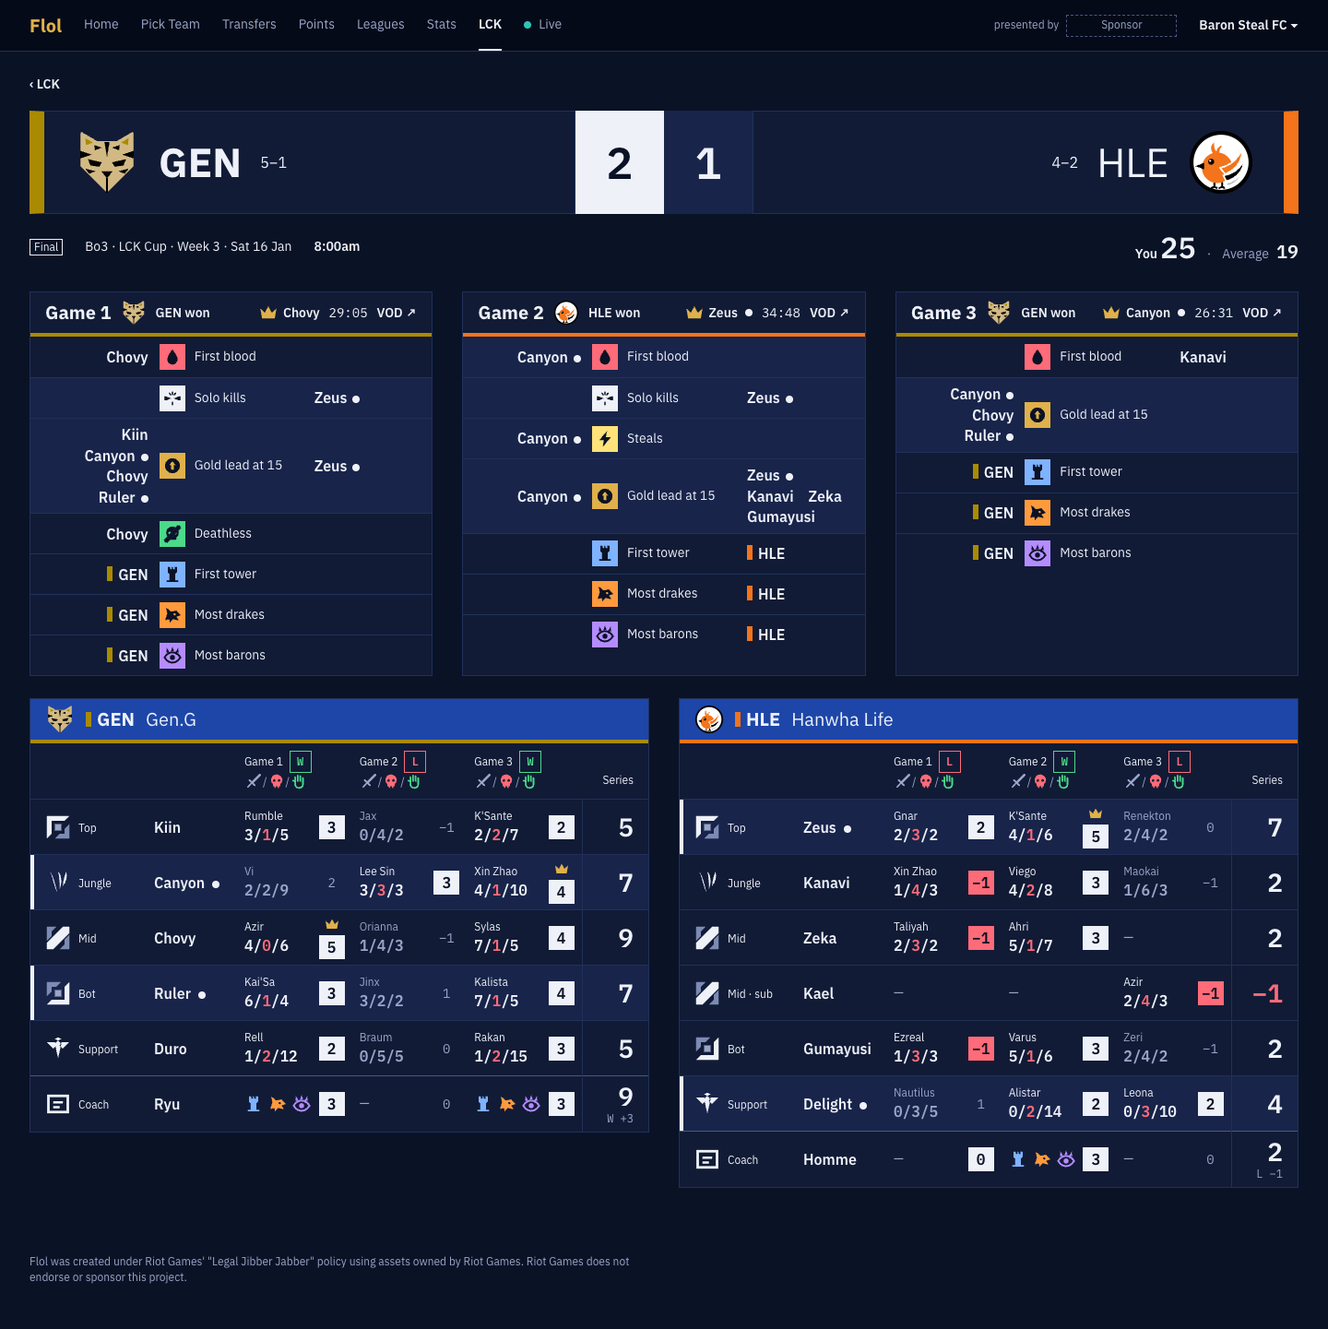
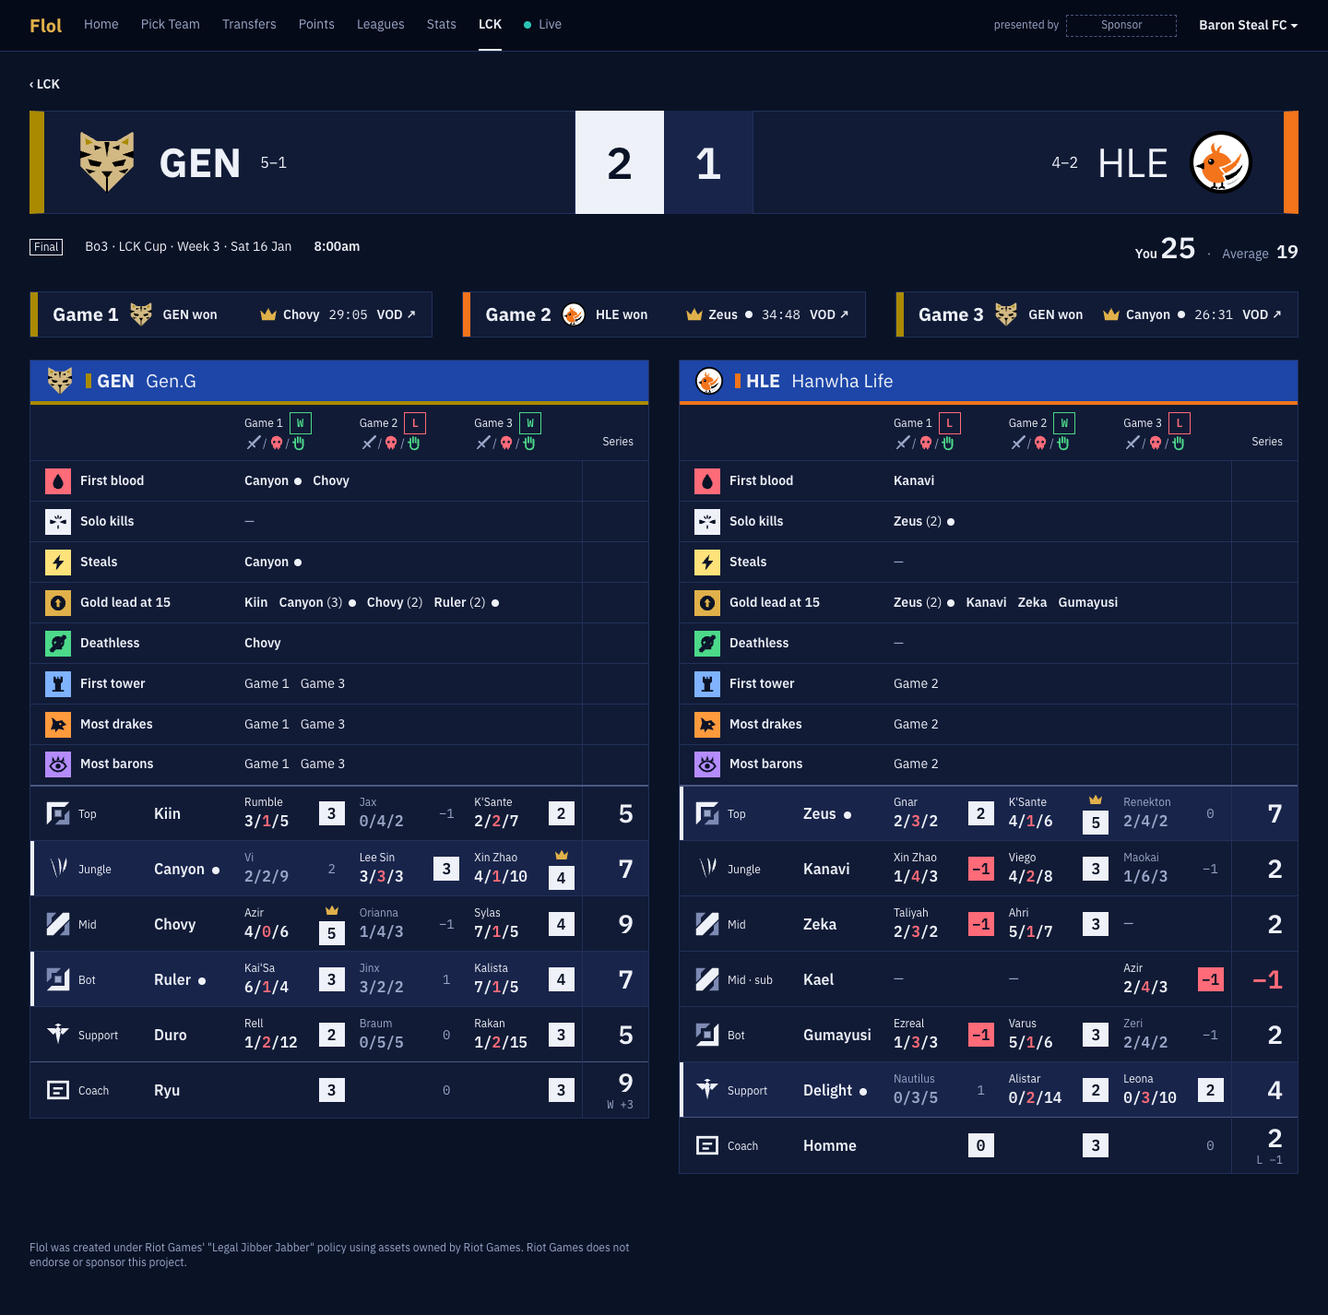
docs: Series cut by team throughout: each team's events head its table with counts as FPL, a line a game under the scorebug

diff --git a/docs/design/approved/series/series.html b/docs/design/approved/series/series.html
@@ -82,11 +82,10 @@ td.drop .gm .kda i { color: inherit; }
 .gm .p .ic--pog { color: var(--gold); }
 tr.is-me td { background: var(--fill); }
 tr.is-me td:first-child { box-shadow: inset 4px 0 0 var(--text); }
-/* The games, as FPL and UCL fantasy set a finished match's events under its score: a card a game, a row an event,
-   each team's names on its own side of the event's mark. */
+/* The games: a line a game under the scorebug. */
 .games { display: grid; gap: 32px; margin-top: 24px; }
 .game { background: var(--paper); border: 1px solid var(--line); }
-.game__head { font: 400 14px/24px var(--sans); white-space: nowrap; display: flex; align-items: center; gap: 10px; min-height: 48px; padding: 0 16px; border-bottom: 4px solid var(--text); }
+.game__head { font: 400 14px/24px var(--sans); white-space: nowrap; display: flex; align-items: center; gap: 10px; min-height: 48px; padding: 0 16px; border-left: 8px solid var(--text); }
 .game__head > b { font: 700 20px/24px var(--head); }
 .game__head .pogw b { font-weight: 600; }
 .game__head .crest { width: 28px; height: 28px; }
@@ -95,20 +94,8 @@ tr.is-me td:first-child { box-shadow: inset 4px 0 0 var(--text); }
 .game__head .pogw { display: flex; align-items: center; gap: 6px; margin-left: auto; }
 .game__head .pogw .ic { color: var(--gold); width: 20px; height: 20px; }
 .game__head .yours { margin-left: 2px; }
-.ev { display: grid; grid-template-columns: 1fr 156px 1fr; gap: 0 12px; align-items: center; min-height: 44px; padding: 0 16px; border-top: 1px solid var(--line); }
-.ev:first-of-type { border-top: 0; }
-.ev.is-me { background: var(--fill); }
-.ev__what { display: flex; align-items: center; gap: 10px; color: var(--text); font-size: 14px; }
 .sq { display: flex; align-items: center; justify-content: center; width: 28px; height: 28px; flex: none; background: var(--text); }
-.sq .ic { color: var(--bg); }
-.ev__what .ic { width: 20px; height: 20px; }
-.ev b { font-size: 16px; }
-.ev__what .ic--pog { color: var(--gold); }
-.ev__a { text-align: right; }
-.ev__a, .ev__b { display: flex; flex-wrap: wrap; gap: 0 16px; align-items: center; padding: 6px 0; }
-.ev__a { justify-content: flex-end; }
-.ev b { font-weight: 600; }
-.ev .yours { margin-left: 6px; }
+.sq .ic { color: var(--bg); width: 20px; height: 20px; }
 .ev--none { color: var(--mid); justify-content: center; display: flex; }
 .gm .p { flex: none; font: 600 14px/20px var(--fig); min-width: 28px; display: flex; flex-direction: column; align-items: center; gap: 4px; }
 .gm .p .box { min-width: 28px; font: 700 16px/26px var(--fig); text-align: center; background: var(--text); color: var(--bg); }
@@ -120,8 +107,13 @@ td.drop .gm .p { font-weight: 400; }
 td.tot { text-align: right; padding-right: 16px; font: 700 28px/32px var(--fig); border-left: 1px solid var(--line); }
 td.tot small { display: block; font: 400 12px/16px var(--fig); color: var(--mid); }
 tr.co td { border-top-color: var(--soft); }
-.gm .co-l { display: flex; gap: 6px; }
-.gm .co-l .ic { width: 20px; height: 20px; }
+/* A team's events head its table: a row a scoring line, its mark on a square of its colour, then who earned it. */
+.grid tr.evr td { height: 44px; padding-top: 6px; padding-bottom: 6px; }
+.evr__what { display: flex; align-items: center; gap: 10px; font-weight: 600; }
+.evr__who { display: flex; flex-wrap: wrap; gap: 0 12px; align-items: center; }
+.evr__who b { font-weight: 600; }
+.evr__who .yours { margin-left: 6px; }
+.grid tr.evr + tr:not(.evr) td { border-top: 2px solid var(--soft); }
 .none { color: var(--mid); }
 .cap { position: static; display: inline-block; width: 20px; height: 20px; margin-left: 8px; border: 0; box-shadow: none; font: 700 12px/20px var(--sans); text-align: center; vertical-align: 1px; }
 .chip { display: inline-block; min-width: 24px; height: 24px; padding: 0 6px; font: 600 12px/22px var(--fig); text-align: center; border: 1px solid transparent; }
@@ -241,14 +233,19 @@ const ic = (id, title = "", cls = "") => `<svg class="ic ic--${id} ${cls}"${titl
 const pog = (s, i, n) => (s.games[i].pog === n ? ic("pog", "Player of the Game", "ic--pog") : "");
 const cell = (s, i, n, label, p, counted) => `<td class="${counted ? "" : "drop"}"><div class="gm"><span>${label}</span><span class="p">${pog(s, i, n)}${counted ? `<span class="box${p < 0 ? " neg" : ""}">${fmt(p)}</span>` : fmt(p)}</span></div></td>`;
 const L = ["First tower", "Most drakes", "Most barons", "Most elders", "Quick win"], LI = ["tower", "drake", "baron", "elder", "quick"];
-// A game's events, as FPL's and UCL fantasy's finished match: a row an event that happened, each team's names on its side.
-function game(s, i) {
-  const g = s.games[i], side = (code) => { const t = s[code], at = (f) => t.p.filter((p) => p[3][i] && f(p[3][i]) > 0).map((p) => `<span><b>${p[1]}</b>${f(p[3][i]) > 1 ? ` ×${f(p[3][i])}` : ""}${me(p[1])}</span>`).join("");
-    const own = `<span><i class="team__bar" style="background:${BAR[code]}"></i><b>${code}</b></span>`, c = t.coach[2][i];
-    return [at((x) => x[6]), at((x) => x[5]), at((x) => x[8]), at((x) => (x[7] === 1 ? 1 : 0)), at((x) => (x[7] === 2 ? 1 : 0)), at((x) => x[4]), at((x) => (x[2] === 0 && !x[9] ? 1 : 0)), ...c.map((x) => (x ? own : ""))]; };
-  const A = side(s.a), B = side(s.b), W = [["fb", "First blood"], ["solo", "Solo kills"], ["steal", "Steals"], ["multi", "Quadras"], ["multi", "Pentas"], ["gold", "Gold lead at 15"], ["none", "Deathless"], ...L.map((l, j) => [LI[j], l])];
-  const rows = W.map(([id, word, cls], j) => (A[j] || B[j] ? `<div class="ev${(A[j] + B[j]).includes("yours") ? " is-me" : ""}"><span class="ev__a">${A[j]}</span><span class="ev__what"><span class="sq" style="background:var(--m-${id}, var(--text))">${ic(id, "", cls)}</span>${word}</span><span class="ev__b">${B[j]}</span></div>` : "")).join("");
-  return `<section class="game"><h2 class="game__head"${g.w ? ` style="border-bottom-color:${BAR[g.w]}"` : ""}><b>Game ${i + 1}</b>${g.live ? `<span class="tag tag--live">Live</span><span class="len" style="margin-left:auto"><b>${g.live}</b></span>` : `${crest(g.w)}<span class="won">${g.w} won</span><span class="pogw">${ic("pog", "Player of the Game")}<b>${g.pog}</b>${me(g.pog)}</span><span class="len">${g.len}</span><a class="link" href="#">VOD ↗</a>`}</h2>${rows || '<div class="ev ev--none">—</div>'}</section>`;
+// A game's result, one line a game under the scorebug: who won, its Player of the Game, its length and its VOD.
+const game = (s, i) => { const g = s.games[i]; return `<section class="game"><h2 class="game__head"${g.w ? ` style="border-left-color:${BAR[g.w]}"` : ""}><b>Game ${i + 1}</b>${g.live ? `<span class="tag tag--live">Live</span><span class="len" style="margin-left:auto"><b>${g.live}</b></span>` : `${crest(g.w)}<span class="won">${g.w} won</span><span class="pogw">${ic("pog", "Player of the Game")}<b>${g.pog}</b>${me(g.pog)}</span><span class="len">${g.len}</span><a class="link" href="#">VOD ↗</a>`}</h2></section>`; };
+// A team's events over the series, a row a scoring line that somebody earned: who earned it, or the games for a coach line.
+const EV = [["fb", "First blood", (x) => x[6]], ["solo", "Solo kills", (x) => x[5]], ["steal", "Steals", (x) => x[8]], ["multi", "Quadras", (x) => (x[7] === 1 ? 1 : 0)], ["multi", "Pentas", (x) => (x[7] === 2 ? 1 : 0)], ["gold", "Gold lead at 15", (x) => x[4]], ["none", "Deathless", (x) => (x[2] === 0 && !x[9] ? 1 : 0)]];
+function events(s, t) {
+  const n = s.games.length, sq = (id) => `<span class="sq" style="background:var(--m-${id}, var(--text))">${ic(id)}</span>`;
+  // Over the series, as FPL: a name once, its count after it when over one, Faker (2). A coach line names its games.
+  const count = (p, f) => sum(p[3].map((g) => (g ? f(g) : 0)));
+  const who = (u) => [...EV.map(([, , f]) => u.p.filter((p) => count(p, f) > 0).map((p) => `<span><b>${p[1]}</b>${count(p, f) > 1 ? ` (${count(p, f)})` : ""}${me(p[1])}</span>`).join("")),
+    ...L.map((_, j) => s.games.map((_, i) => (u.coach[2][i][j] ? `<span>Game ${i + 1}</span>` : "")).join(""))];
+  // Both tables carry the same rows, a line either team earned, so their players line up.
+  const mine = who(t), a = who(s[s.a]), b = who(s[s.b]), W = [...EV, ...L.map((l, j) => [LI[j], l])];
+  return W.map(([id, word], k) => (a[k] || b[k] ? `<tr class="evr"><td colspan="2"><span class="evr__what">${sq(id)}${word}</span></td><td colspan="${n}">${mine[k] ? `<span class="evr__who">${mine[k]}</span>` : '<span class="none">—</span>'}</td><td class="tot"></td></tr>` : "")).join("");
 }
 function team(s, code) {
   const t = s[code], won = s.games.map((g) => g.w === code), n = s.games.length, over = s.games.every((g) => g.w);
@@ -259,9 +256,9 @@ function team(s, code) {
       ${gs.map((g, i) => (g ? cell(s, i, nm, `<span class="ch">${g[0]}</span><span class="kda">${g[1]}/<i>${g[2]}</i>/${g[3]}</span>`, ps[i], c.includes(i)) : '<td><span class="none">—</span></td>')).join("")}<td class="tot">${mine(nm, sum(c.map((i) => ps[i])))}</td></tr>`; }).join("");
   const [cn, ck, cg] = t.coach, cp = cg.map(sum), c = best2(cp), sw = !over ? 0 : won.filter(Boolean).length === 2 ? 3 : -1;
   const coach = `<tr class="co${MINE.includes(cn) ? " is-me" : ""}"><td class="rl"><svg><use href="#i-coach"/></svg>Coach</td><td class="pl"><b>${cn}</b>${me(cn)}</td>
-    ${cg.map((g, i) => cell(s, i, cn, `<span class="${g.some(Boolean) ? "co-l" : "none"}">${g.map((x, j) => (x ? ic(LI[j], L[j]) : "")).join("") || "—"}</span>`, cp[i], c.includes(i))).join("")}
+    ${cg.map((g, i) => cell(s, i, cn, "", cp[i], c.includes(i))).join("")}
     <td class="tot">${mine(cn, sum(c.map((i) => cp[i])) + sw)}<small>${sw > 0 ? "W +3" : sw < 0 ? "L −1" : "&nbsp;"}</small></td></tr>`;
-  return { html: `<section class="grid"><h2 class="grid__head" style="--team:${BAR[code]}">${crest(code)}<b><i class="team__bar" style="background:${BAR[code]}"></i>${code}</b>${t.name === code ? "" : `<span>${t.name}</span>`}</h2><table>${head}${rows}${coach}</table></section>` };
+  return { html: `<section class="grid"><h2 class="grid__head" style="--team:${BAR[code]}">${crest(code)}<b><i class="team__bar" style="background:${BAR[code]}"></i>${code}</b>${t.name === code ? "" : `<span>${t.name}</span>`}</h2><table>${head}${events(s, t)}${rows}${coach}</table></section>` };
 }
 // Before it starts: Week 4's HLE v DK, Wednesday 20 Jan, opened at the hub's moment.
 const NEXT = { HLE: [["Zeus", "최우제"], ["Kanavi", "서진혁"], ["Zeka", "김건우"], ["Gumayusi", "이민형"], ["Delight", "유환중"], ["Homme", "윤성영"]],

diff --git a/docs/design/approved/series/README.md b/docs/design/approved/series/README.md
@@ -6,7 +6,7 @@ The Series page: one series, its games and each player's lines in each game (spe
 
 **Changed by Craig, 27 Nov 2026:** redrawn in the new look ([plate.md](../../plate.md)), each grid under a band with its team's crest, code and full name. The line under the scorebug ends with `You 22 · Average 14` ([spec/12](../../../../spec/12-pages.md), Series page): your points from the series beside the average manager's, rounded down. The scorebug shows crest, code and record only; a team's full name shows once, in its grid's band. The words beside Not final are gone.
 
-**Redrawn again, Craig, 27 Nov 2026:** the first redraw read to him as a dull mess of text and squares with no League in it, and he asked for icons and for first blood and the rest to show, as FPL and UCL fantasy set a finished match's events under its score. So: the scorebug is the page's hero; each game has a card of its events; a game cell carries a mark for each scoring line; your players' rows are filled. He approved the direction the same day, asked which of 3/2/9 was which, and took the Hangul names off this page for the space; a second review round cleaned it up. He still found it short of colour, with a dull grey font and role icons too small, and took the Captain's C and ×1.5 off this page; the design team (a League player, a visual designer and a sceptic) then gave it its colour: a colour a mark, filled points, team colour on the scorebug, the cards and the grids, and the deaths figure in red. The four reviewers' findings are in `git log` for this folder, not a panel file.
+**Redrawn again, Craig, 27 Nov 2026:** the first redraw read to him as a dull mess of text and squares with no League in it, and he asked for icons and for first blood and the rest to show, as FPL and UCL fantasy set a finished match's events under its score. So: the scorebug is the page's hero; each game has a card of its events; a game cell carries a mark for each scoring line; your players' rows are filled. He approved the direction the same day, asked which of 3/2/9 was which, and took the Hangul names off this page for the space; a second review round cleaned it up. He still found it short of colour, with a dull grey font and role icons too small, and took the Captain's C and ×1.5 off this page; the design team (a League player, a visual designer and a sceptic) then gave it its colour: a colour a mark, filled points, team colour on the scorebug, the game lines and the grids, and the deaths figure in red. Last, he had the marks under K/D/A removed and the events moved into each team's table. The four reviewers' findings are in `git log` for this folder, not a panel file.
 
 | File | Shows |
 |---|---|
@@ -20,22 +20,23 @@ The Series page: one series, its games and each player's lines in each game (spe
 - **Points' player drawer**: games as columns, the best 2 boxed and a dropped game greyed. The Series page is ten of these drawers at once.
 - **Live's scorebug**: each team on a panel with its crest, the series score between them, turned over. Here it runs full width.
 - **gol.gg and Inven**: one column per game.
-- **FPL's and UCL fantasy's finished match** (looked at 27 Nov 2026): under the score, a row an event (goals, assists, saves, cards, bonus), the event's mark in the middle and each team's names on its own side; UCL leads with the Player of the Match.
+- **FPL's and UCL fantasy's finished match** (looked at 27 Nov 2026): under the score, a row an event (goals, assists, saves, cards, bonus) with each team's names and a count, `Anderson (1)`; UCL leads with the Player of the Match. Here each team's events head its own table.
 
 ## Layout
 
-- **Type**: 44 team codes and 48 the series score in the scorebug, 32 You, 28 each player's series total, 20 Average and a game card's title, 16 names and per-game points, 14 body and K/D/A, 12 labels and champions. The nav is shared.
+- **Type**: 44 team codes and 48 the series score in the scorebug, 32 You, 28 each player's series total, 20 Average and a game line's title, 16 names and per-game points, 14 body and K/D/A, 12 labels and champions. The nav is shared.
 - **Scorebug**, 112 tall: a 16px bar of the team's colour at each outer edge, team crest (72), code and record, and between them a 96px cell for each team's games won, the winner's turned over (white, dark figure). While it is live both cells follow the same rule, the leader's turned over. The loser's code drops to plain weight once the series is final; while it is live, neither does. A record is as of when the page is opened, so it is the record before the series while the series is live.
 - **The line under it**: a Final tag, or Live and a dashed Not final tag. Then the format, competition, week, day and time (your local time), and Watch › while live or before the start. At the right, You and Average, once the series has started; You is the larger.
-- **A card a game**, side by side under that line: `Game 1`, the winner's crest and `T1 won`, then at the right a gold crown and the Player of the Game, the game's length and `VOD ↗`; a live game shows the Live tag and its clock. Under the head, a row for each event that happened, in this order: First blood, Solo kills, Steals, Quadras, Pentas, Gold lead at 15, Deathless, then the coach lines First tower, Most drakes, Most barons, Most elders, Quick win. A row naming one of your players is filled. Cards share the tallest one's height. The event's mark sits in the middle on a 28px square of its own colour, its word after it, the left team's names to its left and the right team's to its right. The rule under the card's head is the winner's colour. A player carries your dot; a count over one reads `×2`; a coach line names the team by its bar and code. An event nobody got has no row.
-- **Two grids**, one per team, side by side:
+- **A line a game**, side by side under that line, its left edge the winner's colour: `Game 1`, the winner's crest and `T1 won`, then at the right a gold crown and the Player of the Game, the game's length and `VOD ↗`; a live game shows the Live tag and its clock.
+- **Two grids**, one per team, side by side. The whole page below the scorebug is cut by team (Craig, 27 Nov 2026: the events were by game and the points by team):
+  - under the game heads, the team's events over the series, a row a scoring line either team earned, in this order: First blood, Solo kills, Steals, Quadras, Pentas, Gold lead at 15, Deathless, First tower, Most drakes, Most barons, Most elders, Quick win. The line's mark sits on a 28px square of its own colour before its word; then who earned it, a name once with its count after it when over one, `Faker (2)`, as FPL; a coach line names its games, `Game 1 Game 2`. A line the other team alone earned shows a dash, so the two tables' players line up;
   - one row per player in role order, then the coach under a rule;
   - the name, with no Hangul (Craig, 27 Nov 2026), and a round dot after your own players, whose rows are filled (`--fill`) with a 4px white bar at the left; no Captain's C and no ×1.5 here (Craig, 27 Nov 2026), so a Series total is the player's own and You is the sum of yours;
   - a column per game, headed `Game 1` with W or L, or the Live tag, and under it a sword, a red skull and a green hand for kills, deaths and assists, as League's scoreboard heads them;
-  - each game cell holds the champion, and K/D/A with the deaths figure in red; no marks under it, the game's card saying who earned what (Craig, 27 Nov 2026: the marks meant nothing there). At the right, the points, the best 2 on a filled white square (red for a minus) and a dropped game greyed and bare. Rows are 60 tall, the role icon 28;
+  - each game cell holds the champion, and K/D/A with the deaths figure in red; no marks under it, the events above saying who earned what (Craig, 27 Nov 2026: the marks meant nothing there). At the right, the points, the best 2 on a filled white square (red for a minus) and a dropped game greyed and bare. Rows are 60 tall, the role icon 28;
   - a gold crown sits over the points of each game's Player of the Game;
   - the Series column shows the best-2 total;
-  - the coach cell shows a mark for each coach line that scored (First tower, Most drakes, Most barons, Most elders, Quick win). The coach's series total adds W +3 or L −1 once the series is final.
+  - the coach's game cell shows his points alone, his lines being in the events above. The coach's series total adds W +3 or L −1 once the series is final.
 - **A player who sat out a game**: a dash in that game. A sub has his own row, marked "· sub" beside his role.
 - **Before it starts**: both rosters, 40px rows, coach last.
 

diff --git a/docs/design/plate.md b/docs/design/plate.md
@@ -154,7 +154,7 @@ Each part is drawn one way on every screen.
   in the bar's place. Never a tinted row, a wash or a coloured code.
 - **Your players** are marked by that dot, on every screen.
 - **A fact's mark** (Home's Star, Flop and All managers, Points' Star, Flop and Killer; Craig, 27 Nov 2026, "keep them", after the pages read dull): a 20px mark before the fact's word, its colour the one that fact already has elsewhere: Star a gold star, Flop a red falling line, Killer crossed swords in `--text`, having no colour of its own (Craig, 27 Nov 2026), Most captained the Captain's C, Most bought a green plus in a ring and Most sold a red minus in a ring, as Transfers' Buy and Sell. One mark a fact, the same on every page.
-- **A scoring line's mark** (Series; Craig, 27 Nov 2026, after the page read as text and squares): a mark, drawn for Flol with none of Riot's artwork, for each scoring line a player or coach earned in a game, on a 28px filled square beside the line's word in a game's card; never alone under a player's K/D/A, where it meant nothing (Craig, 27 Nov 2026). A coach's game cell keeps his lines' marks at 20px. Each line's mark has its own colour (Craig, 27 Nov 2026, the page still short of colour): red for blood and deaths, gold for gold and the crown, orange drakes, purple Baron, teal Elder, blue tower, yellow steal, green for the clean lines. Kills, deaths and assists are a single sword, a skull and a hand, crossed swords being Killer's. Player of the Game is a crown in `--ink`, the star being Star's. One mark a line, the same on every page; the set is `approved/series/`, Marks.
+- **A scoring line's mark** (Series; Craig, 27 Nov 2026, after the page read as text and squares): a mark, drawn for Flol with none of Riot's artwork, for each scoring line a player or coach earned in a game, on a 28px filled square before the line's word, in the events that head a team's table; never alone under a player's K/D/A, where it meant nothing (Craig, 27 Nov 2026). Each line's mark has its own colour (Craig, 27 Nov 2026, the page still short of colour): red for blood and deaths, gold for gold and the crown, orange drakes, purple Baron, teal Elder, blue tower, yellow steal, green for the clean lines. Kills, deaths and assists are a single sword, a skull and a hand, crossed swords being Killer's. Player of the Game is a crown in `--ink`, the star being Star's. One mark a line, the same on every page; the set is `approved/series/`, Marks.
 - **A player named in a row** reads as his tile's plate: his team's bar and code, then his name, `T1 Faker`; never a bare name (Craig, 27 Nov 2026; `approved/home/`).
 - **Section that opens and closes** (Help, as FPL's): a 48px row, its title 16/600 at the left and
   ▾ or ▴ in `--mid` at the right, a 1px `--line` under it; open, its text sits under the title with

diff --git a/spec/12-pages.md b/spec/12-pages.md
@@ -81,9 +81,10 @@ FPL's, or FPL's logic ([SPEC.md](../SPEC.md), the base assumption). Open questio
   - Each game shows its winner, length, a POG badge on its Player of the Game and a VOD link to
     lolesports. No series POG, picks, bans or sides: "i dont think we need draft info overload"
     (Craig, 16 Nov 2026).
-  - Each game shows its events under the score, as FPL does a finished match's: its Player of the
-    Game, first blood, solo kills, steals, quadras and pentas, gold leads at 15, deathless games
-    and the coach lines, each with who got it (Craig, 27 Nov 2026).
+  - Each team's table is headed by its events over the series, as FPL lists a finished match's:
+    first blood, solo kills, steals, quadras and pentas, gold leads at 15, deathless games and
+    the coach lines, each with who got it and a count when over one, `Faker (2)`. The page is cut
+    by team throughout, not by game (Craig, 27 Nov 2026).
   - The scorebug shows each team's record as of now. The coach row shows the coach lines that
     scored and the series +3 or −1. Your own players carry a mark (Craig, 16 Nov 2026).
   - One line sets your points from the series beside the average manager's: `You 31 · Average 24`.
